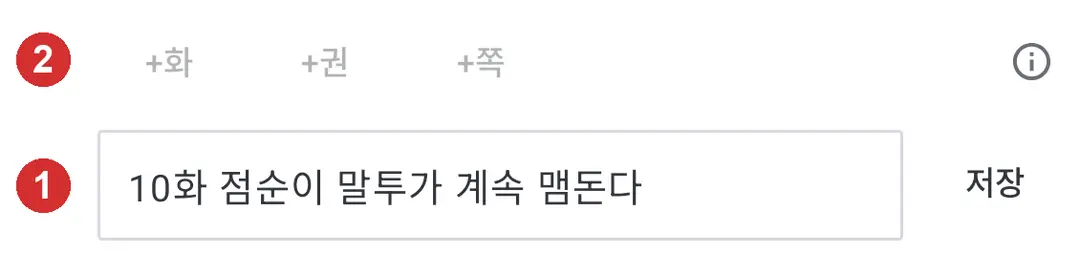
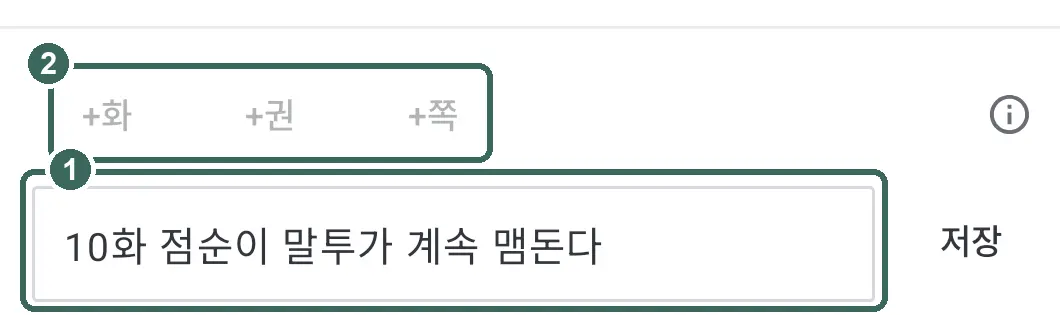
사용법 그림 강조 교체, 감상 노트 예시 통일

diff --git a/index.html b/index.html
@@ -20,7 +20,7 @@ figcaption { margin-top: 6px; font-size: .875rem; color: #555; }
 <main id="top">
 <p><a href="en/" lang="en" hreflang="en">English</a></p>
 <h1>사용법</h1>
-<p class="date">최종 수정일: 2026년 9월 12일</p>
+<p class="date">최종 수정일: 2026년 9월 13일</p>
 <nav class="toc"><ol>
 <li><a href="#s1">책 넣기</a></li>
 <li><a href="#s2">읽기·보기 설정</a></li>
@@ -34,10 +34,10 @@ figcaption { margin-top: 6px; font-size: .875rem; color: #555; }
 <h2 id="s1">책 넣기</h2>
 <p>My의 &#x27;책 파일 추가&#x27;에서 &#x27;파일 추가하기&#x27;를 누릅니다. EPUB·PDF·TXT 형식은 자동으로 판별합니다.</p>
 <p>여러 권은 &#x27;지정 폴더에서 책 추가하기&#x27;에서 고릅니다. 등록한 파일은 앱 안에 복사됩니다.</p>
-<figure><img src="img/guide_s1_1.webp" alt="" loading="lazy" width="1080" height="378"><figcaption>1 지정 폴더에서 책 추가하기 · 2 파일 추가하기</figcaption></figure>
+<figure><img src="img/guide_s1_1.webp" alt="" loading="lazy" width="1080" height="410"><figcaption>1 지정 폴더에서 책 추가하기 · 2 파일 추가하기</figcaption></figure>
 <p>같은 작품에 파일을 더 붙이려면 작품 정보의 &#x27;파일&#x27; 줄에서 &#x27;+ 파일 추가&#x27;를 누릅니다.</p>
 <p>표지를 누르고 &#x27;파일 표지 중에서 고르기&#x27;나 &#x27;갤러리에서 고르기&#x27;를 누릅니다.</p>
-<figure><img src="img/guide_s1_2.webp" alt="" loading="lazy" width="1080" height="557"><figcaption>1 표지(누르면 표지 바꾸기) · 2 + 파일 추가</figcaption></figure>
+<figure><img src="img/guide_s1_2.webp" alt="" loading="lazy" width="1000" height="612"><figcaption>1 표지(누르면 표지 바꾸기) · 2 + 파일 추가</figcaption></figure>
 <p class="top"><a href="#top">맨 위로</a></p>
 <h2 id="s2">읽기·보기 설정</h2>
 <p>책을 열고 화면 가운데를 누르면 메뉴가 열립니다. 다시 누르면 닫힙니다.</p>
@@ -45,51 +45,51 @@ figcaption { margin-top: 6px; font-size: .875rem; color: #555; }
 <p>&#x27;뷰어 설정&#x27;의 &#x27;페이지 넘김 터치 영역&#x27;에서 방향을 고릅니다. 기본인 &#x27;좌우&#x27;는 왼쪽이 이전 쪽, 오른쪽이 다음 쪽이며 &#x27;상하&#x27;는 위가 이전 쪽, 아래가 다음 쪽입니다.</p>
 <p>EPUB·TXT는 &#x27;보기 설정&#x27;에서 글꼴·글자 크기·간격·배경을 조절합니다. 원본 PDF는 글자 크기를 바꾸지 않습니다.</p>
 <p>&#x27;스크롤 보기&#x27;에서는 화면을 밀어 읽습니다. 가장자리 터치로는 쪽을 넘기지 않습니다.</p>
-<figure><img src="img/guide_s2_2.webp" alt="" loading="lazy" width="1080" height="593"><figcaption>1 스크롤 보기 · 2 페이지 넘김 터치 영역</figcaption></figure>
+<figure><img src="img/guide_s2_2.webp" alt="" loading="lazy" width="1060" height="690"><figcaption>1 스크롤 보기 · 2 페이지 넘김 터치 영역</figcaption></figure>
 <p class="top"><a href="#top">맨 위로</a></p>
 <h2 id="s3">형광펜·메모·책갈피</h2>
 <p>EPUB·TXT에서 문장을 길게 누르고 범위를 조절한 뒤 색 버튼을 누릅니다. 남긴 형광펜을 누르면 색을 바꿀 수 있습니다.</p>
 <p>문장을 고른 뒤 &#x27;메모&#x27;를 누르고 내용을 적어 &#x27;저장&#x27;합니다.</p>
 <figure><img src="img/guide_s3_1.webp" alt="" loading="lazy" width="930" height="420"><figcaption>1 색 버튼 · 2 메모</figcaption></figure>
 <p>메뉴의 책갈피 버튼을 누르면 위치가 남고, 다시 누르면 해제됩니다. 남긴 기록은 &#x27;독서노트&#x27;에서 확인합니다.</p>
-<figure><img src="img/guide_s3_2.webp" alt="" loading="lazy" width="457" height="180"><figcaption>1 책갈피 버튼 · 2 리본 표시</figcaption></figure>
+<figure><img src="img/guide_s3_2.webp" alt="" loading="lazy" width="457" height="205"><figcaption>1 책갈피 버튼 · 2 리본 표시</figcaption></figure>
 <p>원본 PDF는 &#x27;EPUB으로 변환해서 읽기&#x27;로 변환한 뒤 형광펜을 남깁니다. 글자 없는 이미지 스캔본은 변환되지 않습니다.</p>
 <p class="top"><a href="#top">맨 위로</a></p>
 <h2 id="s4">감상 쓰기</h2>
-<p>감상 첫머리에 10화·17권·203쪽을 적고 공백이나 줄바꿈을 넣습니다. !10·@17·p203으로도 적습니다.</p>
+<p>감상 첫머리에 !10·@20·p30(10화·20권·p. 30)을 적고 공백이나 줄바꿈을 넣습니다. 10화·20권처럼 그대로 적어도 됩니다.</p>
 <p>여러 화는 10-12화 또는 !10-12로 적습니다. 표시 뒤에 공백이나 줄바꿈을 넣고 감상을 이어 씁니다.</p>
-<figure><img src="img/guide_s4_1.webp" alt="" loading="lazy" width="1080" height="253"><figcaption>1 감상 입력칸(첫머리에 회차) · 2 +화 · +권 · +쪽</figcaption></figure>
+<figure><img src="img/guide_s4_1.webp" alt="" loading="lazy" width="1060" height="315"><figcaption>1 감상 입력칸(첫머리에 회차) · 2 +화 · +권 · +쪽</figcaption></figure>
 <p>회차 표시 없이 적으면 총감상으로 남습니다. 작품 전체에 대한 한마디는 맨 위 &#x27;전체평&#x27;에서 씁니다.</p>
-<figure><img src="img/guide_s4_2.webp" alt="" loading="lazy" width="1080" height="904"><figcaption>1 전체평 · 2 회차별 감상</figcaption></figure>
+<figure><img src="img/guide_s4_2.webp" alt="" loading="lazy" width="1029" height="966"><figcaption>1 전체평 · 2 회차별 감상</figcaption></figure>
 <p class="top"><a href="#top">맨 위로</a></p>
 <h2 id="s5">서재 정리·책장</h2>
 <p>서재의 &#x27;책장 목록&#x27;에서 &#x27;+ 새 책장 추가&#x27;로 책장을 만듭니다. 작품을 길게 눌러 &#x27;책장에 담기&#x27;를 고릅니다.</p>
 <p>&#x27;작품 정보 변경&#x27;에서 상태를 바꾸면 책 파일이 있는 작품은 상태별 책장에 모입니다(여러 작품은 선택한 뒤 &#x27;독서 상태 변경&#x27;). &#x27;읽는 중&#x27;에는 &#x27;연재 중&#x27;·&#x27;재독&#x27;, &#x27;완독&#x27;에는 &#x27;연재 완독&#x27;도 모입니다.</p>
 <figure><img src="img/guide_s5_2.webp" alt="" loading="lazy" width="771" height="1080"><figcaption>1 책장에 담기 · 2 작품 정보 변경</figcaption></figure>
 <p>처음에는 &#x27;시작 전&#x27;·&#x27;하차&#x27;·&#x27;기록만&#x27; 책장이 숨겨져 있습니다. &#x27;책장 목록&#x27;의 &#x27;편집&#x27;에서 표시할 책장을 고릅니다.</p>
-<figure><img src="img/guide_s5_1.webp" alt="" loading="lazy" width="812" height="1080"><figcaption>1 + 새 책장 추가 · 2 편집(숨긴 책장 표시)</figcaption></figure>
+<figure><img src="img/guide_s5_1.webp" alt="" loading="lazy" width="718" height="1080"><figcaption>1 + 새 책장 추가 · 2 편집(숨긴 책장 표시)</figcaption></figure>
 <p>&#x27;기록만&#x27;에는 책 파일 없는 작품이 모입니다. &#x27;책장에서 빼기&#x27;를 해도 작품과 기록은 남습니다.</p>
 <p class="top"><a href="#top">맨 위로</a></p>
 <h2 id="s6">달력·통계</h2>
 <p>뷰어로 읽거나 감상을 남기면 읽은 날이 기록됩니다. &#x27;달력&#x27;에서 날짜를 누르고 &#x27;작품 추가&#x27;로 빠진 기록을 채웁니다.</p>
-<figure><img src="img/guide_s6_1.webp" alt="" loading="lazy" width="781" height="1080"><figcaption>1 날짜 · 2 작품 추가</figcaption></figure>
+<figure><img src="img/guide_s6_1.webp" alt="" loading="lazy" width="765" height="1080"><figcaption>1 날짜 · 2 작품 추가</figcaption></figure>
 <p>&#x27;연간&#x27;에서는 한 해의 읽은 날을 봅니다. &#x27;연속 읽은 날&#x27;에서는 현재와 최장 기록을 봅니다.</p>
 <p>&#x27;통계&#x27;의 &#x27;이달 요약&#x27;에서 &#x27;읽은 작품&#x27;과 &#x27;감상 수&#x27;는 감상 기록 기준입니다. &#x27;독서일&#x27;은 읽은 날의 수입니다.</p>
-<figure><img src="img/guide_s6_2.webp" alt="" loading="lazy" width="1020" height="690"><figcaption>1 이달 요약 · 2 연속 읽은 날</figcaption></figure>
+<figure><img src="img/guide_s6_2.webp" alt="" loading="lazy" width="1050" height="775"><figcaption>1 이달 요약 · 2 연속 읽은 날</figcaption></figure>
 <p class="top"><a href="#top">맨 위로</a></p>
 <h2 id="s7">백업</h2>
 <p>My의 &#x27;백업&#x27;에서 &#x27;백업 파일 만들기&#x27;로 기록과 설정을 저장합니다. 암호는 8자 이상으로 정하며, 잊으면 백업을 복구하지 못합니다.</p>
 <p>&#x27;책 원본 파일 포함&#x27;은 처음에 켜져 있습니다. 끄면 복원한 뒤 책 파일을 다시 등록해야 합니다.</p>
-<figure><img src="img/guide_s7_1.webp" alt="" loading="lazy" width="1080" height="621"><figcaption>1 책 원본 파일 포함 · 2 백업 파일 만들기</figcaption></figure>
+<figure><img src="img/guide_s7_1.webp" alt="" loading="lazy" width="1050" height="650"><figcaption>1 책 원본 파일 포함 · 2 백업 파일 만들기</figcaption></figure>
 <p>&#x27;백업 불러오기&#x27;에서 파일을 확인하고 &#x27;이 백업으로 복원&#x27;을 누릅니다. 현재 기록과 설정이 백업 내용으로 바뀝니다.</p>
-<figure><img src="img/guide_s7_2.webp" alt="" loading="lazy" width="1080" height="937"><figcaption>1 이 백업으로 복원</figcaption></figure>
+<figure><img src="img/guide_s7_2.webp" alt="" loading="lazy" width="1050" height="980"><figcaption>1 이 백업으로 복원</figcaption></figure>
 <p class="top"><a href="#top">맨 위로</a></p>
 <h2 id="s8">이잉크 기기에서</h2>
 <p>전자잉크 화면에서는 My의 &#x27;앱 전체 고대비 (이잉크)&#x27;를 켭니다. 밝은 테마에서만 글자와 선의 대비를 높입니다.</p>
-<figure><img src="img/guide_s8_2.webp" alt="" loading="lazy" width="1080" height="148"><figcaption>1 앱 전체 고대비</figcaption></figure>
+<figure><img src="img/guide_s8_2.webp" alt="" loading="lazy" width="1060" height="173"><figcaption>1 앱 전체 고대비</figcaption></figure>
 <p>읽기 화면의 &#x27;뷰어 설정&#x27;에서 &#x27;이잉크 모드&#x27;를 따로 켭니다. 흰 배경과 검은 글자로 바뀌며 화면 움직임과 페이지 전환 효과를 줄입니다.</p>
 <p>잔상이 남으면 &#x27;주기적 전체 새로 고침&#x27;을 켜고 &#x27;전체 새로 고침 주기&#x27;를 정합니다. 정한 쪽수마다 화면 전체를 다시 그립니다.</p>
-<figure><img src="img/guide_s8_1.webp" alt="" loading="lazy" width="1080" height="354"><figcaption>1 이잉크 모드 · 2 주기적 전체 새로 고침 · 3 전체 새로 고침 주기</figcaption></figure>
+<figure><img src="img/guide_s8_1.webp" alt="" loading="lazy" width="1060" height="430"><figcaption>1 이잉크 모드 · 2 주기적 전체 새로 고침 · 3 전체 새로 고침 주기</figcaption></figure>
 <p class="top"><a href="#top">맨 위로</a></p>
 <p>문의: <a href="mailto:asle14910@gmail.com">asle14910@gmail.com</a></p>
 </main>

diff --git a/en/index.html b/en/index.html
@@ -20,7 +20,7 @@ figcaption { margin-top: 6px; font-size: .875rem; color: #555; }
 <main id="top">
 <p><a href="../" lang="ko" hreflang="ko">한국어</a></p>
 <h1>User guide</h1>
-<p class="date">Last updated: September 12, 2026</p>
+<p class="date">Last updated: September 13, 2026</p>
 <nav class="toc"><ol>
 <li><a href="#s1">Add books</a></li>
 <li><a href="#s2">Reading and appearance</a></li>
@@ -34,10 +34,10 @@ figcaption { margin-top: 6px; font-size: .875rem; color: #555; }
 <h2 id="s1">Add books</h2>
 <p>In My, open &#x27;Add book files&#x27; and tap &#x27;Add a file&#x27;. EPUB, PDF, and TXT formats are detected automatically.</p>
 <p>Choose several books with &#x27;Add books from a folder&#x27;. Added files are copied into the app.</p>
-<figure><img src="../img/en/guide_s1_1.webp" alt="" loading="lazy" width="1080" height="374"><figcaption>1 Add books from a folder · 2 Add a file</figcaption></figure>
+<figure><img src="../img/en/guide_s1_1.webp" alt="" loading="lazy" width="1080" height="405"><figcaption>1 Add books from a folder · 2 Add a file</figcaption></figure>
 <p>To attach more files to a work, tap &#x27;+ Add file&#x27; in the &#x27;File&#x27; row on the work info screen.</p>
 <p>Tap the cover and choose &#x27;Choose from file covers&#x27; or &#x27;Choose from gallery&#x27;.</p>
-<figure><img src="../img/guide_s1_2.webp" alt="" loading="lazy" width="1080" height="557"><figcaption>1 Cover (tap to change) · 2 + Add file</figcaption></figure>
+<figure><img src="../img/guide_s1_2.webp" alt="" loading="lazy" width="1000" height="612"><figcaption>1 Cover (tap to change) · 2 + Add file</figcaption></figure>
 <p class="top"><a href="#top">Scroll to top</a></p>
 <h2 id="s2">Reading and appearance</h2>
 <p>Open a book and tap the center to open the menu. Tap again to close it.</p>
@@ -45,51 +45,51 @@ figcaption { margin-top: 6px; font-size: .875rem; color: #555; }
 <p>Choose &#x27;Page-turn tap zones&#x27; in &#x27;Viewer settings&#x27;. The default, &#x27;Left and right&#x27;, uses left for the previous page and right for the next; &#x27;Top and bottom&#x27; uses top for previous and bottom for next.</p>
 <p>For EPUB and TXT, adjust the font, text size, spacing, and background in &#x27;Appearance&#x27;. Text size stays fixed in original PDFs.</p>
 <p>With &#x27;Scroll view&#x27;, swipe to read. Tapping the edges does not turn pages.</p>
-<figure><img src="../img/guide_s2_2.webp" alt="" loading="lazy" width="1080" height="593"><figcaption>1 Scroll view · 2 Tap zones</figcaption></figure>
+<figure><img src="../img/guide_s2_2.webp" alt="" loading="lazy" width="1060" height="690"><figcaption>1 Scroll view · 2 Tap zones</figcaption></figure>
 <p class="top"><a href="#top">Scroll to top</a></p>
 <h2 id="s3">Highlights, memos, and bookmarks</h2>
 <p>In EPUB and TXT, hold a sentence, adjust the selection, and tap a color button. Tap a saved highlight to change its color.</p>
 <p>Select a passage, tap &#x27;Memo&#x27;, write your note, and tap &#x27;Save&#x27;.</p>
 <figure><img src="../img/en/guide_s3_1.webp" alt="" loading="lazy" width="850" height="400"><figcaption>1 Color buttons · 2 Memo</figcaption></figure>
 <p>Tap the bookmark button in the menu to save your position or remove it. Review saved records in &#x27;Reading notes&#x27;.</p>
-<figure><img src="../img/guide_s3_2.webp" alt="" loading="lazy" width="457" height="180"><figcaption>1 Bookmark button · 2 Ribbon indicator</figcaption></figure>
+<figure><img src="../img/guide_s3_2.webp" alt="" loading="lazy" width="457" height="205"><figcaption>1 Bookmark button · 2 Ribbon indicator</figcaption></figure>
 <p>Use &#x27;Convert to EPUB&#x27; before highlighting an original PDF. Image scans without text cannot be converted.</p>
 <p class="top"><a href="#top">Scroll to top</a></p>
 <h2 id="s4">Write notes</h2>
-<p>Start a note with 10화, 17권, or 203쪽 for episode 10, volume 17, or page 203, followed by a space or line break. You can also use !10, @17, or p203.</p>
+<p>Start a note with !10, @20, or p30 (episode 10, volume 20, or p. 30), followed by a space or line break. Plain forms like 10화 or 20권 also work.</p>
 <p>For several episodes, use 10-12화 or !10-12. Add a space or line break, then write your note.</p>
-<figure><img src="../img/guide_s4_1.webp" alt="" loading="lazy" width="1080" height="253"><figcaption>1 Note box (marker first) · 2 +Episode · +Volume · +Page</figcaption></figure>
+<figure><img src="../img/guide_s4_1.webp" alt="" loading="lazy" width="1060" height="315"><figcaption>1 Note box (marker first) · 2 +Episode · +Volume · +Page</figcaption></figure>
 <p>Without a marker, the text becomes an overall note. Use &#x27;Overall review&#x27; at the top for a single verdict on the work.</p>
-<figure><img src="../img/guide_s4_2.webp" alt="" loading="lazy" width="1080" height="904"><figcaption>1 Overall review · 2 Notes by episode</figcaption></figure>
+<figure><img src="../img/guide_s4_2.webp" alt="" loading="lazy" width="1029" height="966"><figcaption>1 Overall review · 2 Notes by episode</figcaption></figure>
 <p class="top"><a href="#top">Scroll to top</a></p>
 <h2 id="s5">Organize your library and shelves</h2>
 <p>In Library, open &#x27;Shelf list&#x27; and tap &#x27;+ Add new shelf&#x27;. Hold a work and choose &#x27;Add to shelf&#x27;.</p>
 <p>Change the status in &#x27;Edit book info&#x27; and works with book files are sorted into status shelves (for several works, select them and use &#x27;Change reading status&#x27;). &#x27;Reading&#x27; includes serializing works and rereads; &#x27;Completed&#x27; includes completed serials.</p>
 <figure><img src="../img/guide_s5_2.webp" alt="" loading="lazy" width="771" height="1080"><figcaption>1 Add to shelf · 2 Edit book info</figcaption></figure>
 <p>&#x27;Not started&#x27;, &#x27;Dropped&#x27;, and &#x27;Records only&#x27; are hidden at first. Choose which shelves to show with &#x27;Edit&#x27; in &#x27;Shelf list&#x27;.</p>
-<figure><img src="../img/guide_s5_1.webp" alt="" loading="lazy" width="812" height="1080"><figcaption>1 + Add new shelf · 2 Edit (show hidden shelves)</figcaption></figure>
+<figure><img src="../img/guide_s5_1.webp" alt="" loading="lazy" width="718" height="1080"><figcaption>1 + Add new shelf · 2 Edit (show hidden shelves)</figcaption></figure>
 <p>&#x27;Records only&#x27; holds works without book files. &#x27;Remove from shelf&#x27; keeps the work and its records.</p>
 <p class="top"><a href="#top">Scroll to top</a></p>
 <h2 id="s6">Calendar and statistics</h2>
 <p>Reading in the viewer or saving a note records a reading day. Tap a date in &#x27;Calendar&#x27; and use &#x27;Add book&#x27; to fill in missing records.</p>
-<figure><img src="../img/guide_s6_1.webp" alt="" loading="lazy" width="781" height="1080"><figcaption>1 Date · 2 Add book</figcaption></figure>
+<figure><img src="../img/guide_s6_1.webp" alt="" loading="lazy" width="765" height="1080"><figcaption>1 Date · 2 Add book</figcaption></figure>
 <p>See a year’s reading days in &#x27;Year&#x27;. See your current and longest streaks in &#x27;Reading streak&#x27;.</p>
 <p>In &#x27;Monthly summary&#x27; under &#x27;Stats&#x27;, &#x27;Books read&#x27; and &#x27;Notes&#x27; are based on saved notes. &#x27;Reading days&#x27; counts the days you read.</p>
-<figure><img src="../img/guide_s6_2.webp" alt="" loading="lazy" width="1020" height="690"><figcaption>1 Monthly summary · 2 Reading streak</figcaption></figure>
+<figure><img src="../img/guide_s6_2.webp" alt="" loading="lazy" width="1050" height="775"><figcaption>1 Monthly summary · 2 Reading streak</figcaption></figure>
 <p class="top"><a href="#top">Scroll to top</a></p>
 <h2 id="s7">Backup</h2>
 <p>In My, open &#x27;Backup&#x27; and use &#x27;Create backup file&#x27; to save records and settings. Backups use a password of at least eight characters by default; if forgotten, the backup cannot be recovered.</p>
 <p>&#x27;Include original book files&#x27; is on at first. Turn it off and you will need to add the book files again after restoring.</p>
-<figure><img src="../img/en/guide_s7_1.webp" alt="" loading="lazy" width="1080" height="621"><figcaption>1 Include original book files · 2 Create backup file</figcaption></figure>
+<figure><img src="../img/en/guide_s7_1.webp" alt="" loading="lazy" width="1050" height="650"><figcaption>1 Include original book files · 2 Create backup file</figcaption></figure>
 <p>Choose and review a file with &#x27;Open backup file&#x27;, then tap &#x27;Restore this backup&#x27;. The backup replaces your current records and settings.</p>
-<figure><img src="../img/guide_s7_2.webp" alt="" loading="lazy" width="1080" height="937"><figcaption>1 Restore this backup</figcaption></figure>
+<figure><img src="../img/guide_s7_2.webp" alt="" loading="lazy" width="1050" height="980"><figcaption>1 Restore this backup</figcaption></figure>
 <p class="top"><a href="#top">Scroll to top</a></p>
 <h2 id="s8">On e-ink devices</h2>
 <p>For electronic ink displays, turn on &#x27;App-wide high contrast (E Ink)&#x27; in My. It increases text and line contrast in the light theme only.</p>
-<figure><img src="../img/guide_s8_2.webp" alt="" loading="lazy" width="1080" height="148"><figcaption>1 App-wide high contrast</figcaption></figure>
+<figure><img src="../img/guide_s8_2.webp" alt="" loading="lazy" width="1060" height="173"><figcaption>1 App-wide high contrast</figcaption></figure>
 <p>Separately enable &#x27;E Ink mode&#x27; in &#x27;Viewer settings&#x27; on the reading screen. It uses a white background and black text and reduces animations and page-turn effects.</p>
 <p>For lingering images, enable &#x27;Periodic full refresh&#x27; and set &#x27;Full refresh interval&#x27;. The whole screen redraws after the chosen number of pages.</p>
-<figure><img src="../img/guide_s8_1.webp" alt="" loading="lazy" width="1080" height="354"><figcaption>1 E Ink mode · 2 Periodic full refresh · 3 Full refresh interval</figcaption></figure>
+<figure><img src="../img/guide_s8_1.webp" alt="" loading="lazy" width="1060" height="430"><figcaption>1 E Ink mode · 2 Periodic full refresh · 3 Full refresh interval</figcaption></figure>
 <p class="top"><a href="#top">Scroll to top</a></p>
 <p>Contact: <a href="mailto:asle14910@gmail.com">asle14910@gmail.com</a></p>
 </main>
